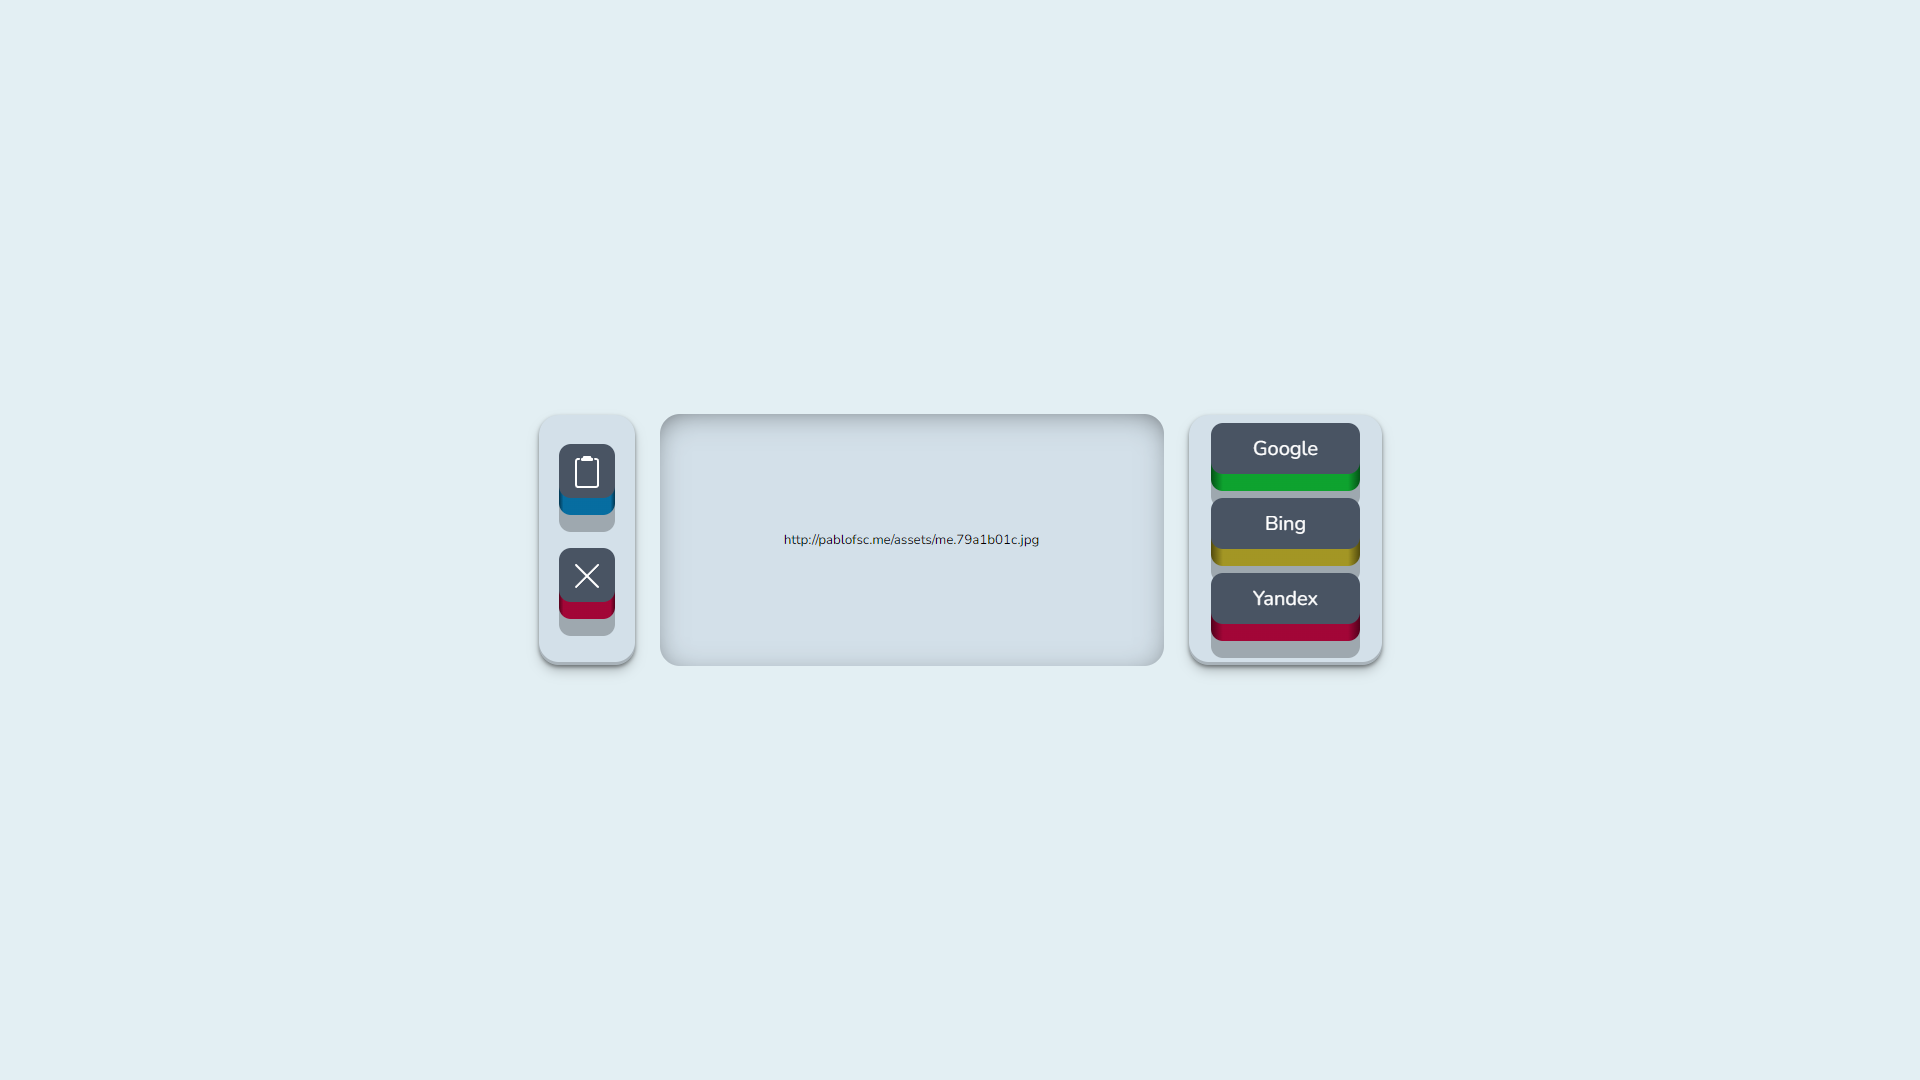
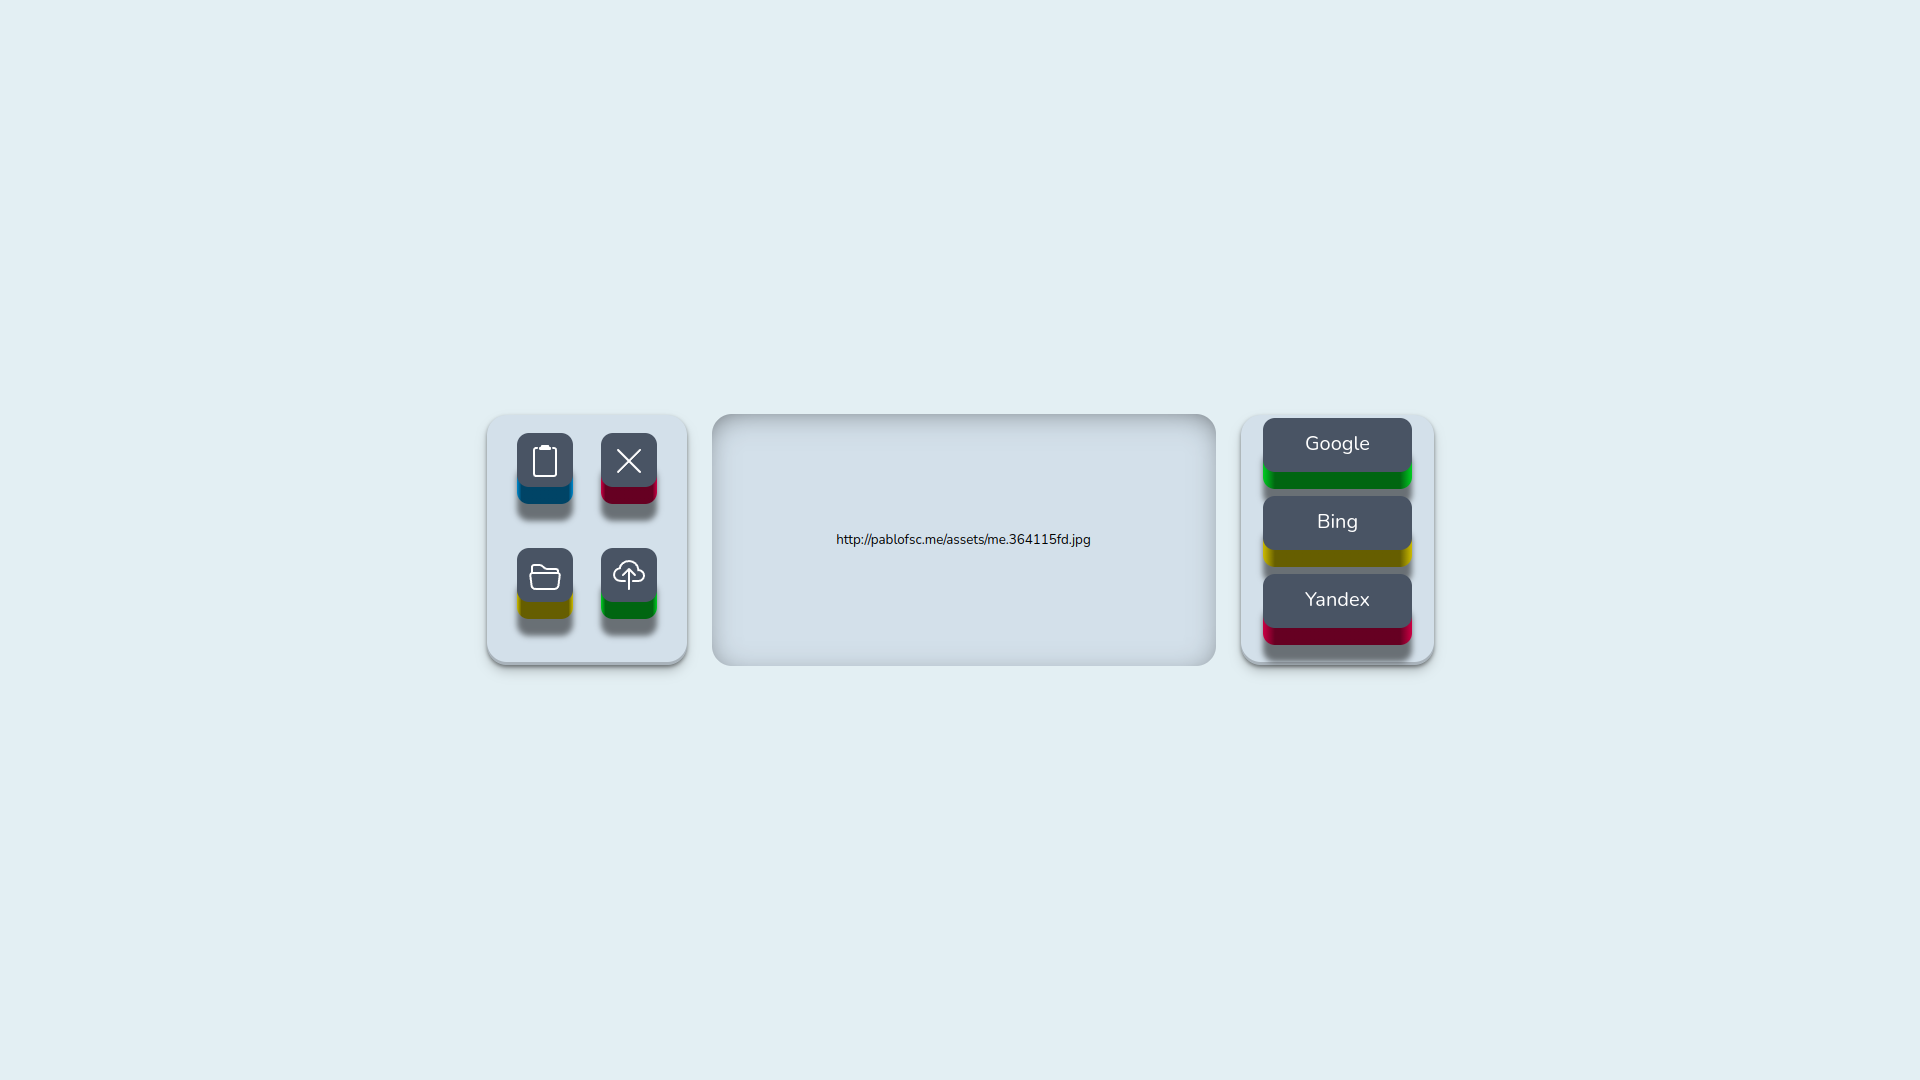
Centralize top bar and make dark mode the default

Changed region(s): [[0.5938, 0.3667, 0.75, 0.6417], [0.25, 0.3667, 0.375, 0.6417], [0.4062, 0.4889, 0.5625, 0.5194]]

diff --git a/src/components/DarkMode.tsx b/src/components/DarkMode.tsx
@@ -1,7 +1,7 @@
 import { useState } from "react"
 
 const DarkMode = () => {
-    const [inDarkMode, setMode] = useState<boolean>(false)
+    const [inDarkMode, setMode] = useState(true)
 
     const switchColorScheme = () => {
         if (inDarkMode) {
@@ -10,9 +10,6 @@ const DarkMode = () => {
             document.documentElement.style.setProperty('--c', '#398AB9')
             document.documentElement.style.setProperty('--d', '#1C658C')
             document.documentElement.style.setProperty('--letters', 'black')
-
-            document.documentElement.style.setProperty('--buttonbg', '#1C658C')
-            document.documentElement.style.setProperty('--hoverbbg', '#1C658C')
         }
         else {
             document.documentElement.style.setProperty('--a', '#1B262C')
@@ -20,9 +17,6 @@ const DarkMode = () => {
             document.documentElement.style.setProperty('--c', '#3282B8')
             document.documentElement.style.setProperty('--d', '#BBE1FA')
             document.documentElement.style.setProperty('--letters', 'white')
-
-            document.documentElement.style.setProperty('--buttonbg', '#1C658C')
-            document.documentElement.style.setProperty('--hoverbbg', '#1C658C')
         }
         setMode(!inDarkMode);
     }
@@ -30,10 +24,8 @@ const DarkMode = () => {
     return (
         <div className='topBarItem hasDefaultBackground fades tridimensional'>
             <div className="darkModeSwitch">
-                <svg xmlns="http://www.w3.org/2000/svg" width="25" height="25" fill="currentColor" className="bi bi-sun"
-                    viewBox="0 0 16 16">
-                    <path
-                        d="M8 11a3 3 0 1 1 0-6 3 3 0 0 1 0 6zm0 1a4 4 0 1 0 0-8 4 4 0 0 0 0 8zM8 0a.5.5 0 0 1 .5.5v2a.5.5 0 0 1-1 0v-2A.5.5 0 0 1 8 0zm0 13a.5.5 0 0 1 .5.5v2a.5.5 0 0 1-1 0v-2A.5.5 0 0 1 8 13zm8-5a.5.5 0 0 1-.5.5h-2a.5.5 0 0 1 0-1h2a.5.5 0 0 1 .5.5zM3 8a.5.5 0 0 1-.5.5h-2a.5.5 0 0 1 0-1h2A.5.5 0 0 1 3 8zm10.657-5.657a.5.5 0 0 1 0 .707l-1.414 1.415a.5.5 0 1 1-.707-.708l1.414-1.414a.5.5 0 0 1 .707 0zm-9.193 9.193a.5.5 0 0 1 0 .707L3.05 13.657a.5.5 0 0 1-.707-.707l1.414-1.414a.5.5 0 0 1 .707 0zm9.193 2.121a.5.5 0 0 1-.707 0l-1.414-1.414a.5.5 0 0 1 .707-.707l1.414 1.414a.5.5 0 0 1 0 .707zM4.464 4.465a.5.5 0 0 1-.707 0L2.343 3.05a.5.5 0 1 1 .707-.707l1.414 1.414a.5.5 0 0 1 0 .708z" />
+                <svg xmlns="http://www.w3.org/2000/svg" width="25" height="25" fill="currentColor" className="bi bi-moon" viewBox="0 0 16 16">
+                    <path d="M6 .278a.768.768 0 0 1 .08.858 7.208 7.208 0 0 0-.878 3.46c0 4.021 3.278 7.277 7.318 7.277.527 0 1.04-.055 1.533-.16a.787.787 0 0 1 .81.316.733.733 0 0 1-.031.893A8.349 8.349 0 0 1 8.344 16C3.734 16 0 12.286 0 7.71 0 4.266 2.114 1.312 5.124.06A.752.752 0 0 1 6 .278zM4.858 1.311A7.269 7.269 0 0 0 1.025 7.71c0 4.02 3.279 7.276 7.319 7.276a7.316 7.316 0 0 0 5.205-2.162c-.337.042-.68.063-1.029.063-4.61 0-8.343-3.714-8.343-8.29 0-1.167.242-2.278.681-3.286z" />
                 </svg>
 
                 <label className="switch">
@@ -41,11 +33,10 @@ const DarkMode = () => {
                     <span className="slider round"></span>
                 </label>
 
-                <svg xmlns="http://www.w3.org/2000/svg" width="25" height="25" fill="currentColor" className="bi bi-moon"
-                    viewBox="0 0 16 16">
-                    <path
-                        d="M6 .278a.768.768 0 0 1 .08.858 7.208 7.208 0 0 0-.878 3.46c0 4.021 3.278 7.277 7.318 7.277.527 0 1.04-.055 1.533-.16a.787.787 0 0 1 .81.316.733.733 0 0 1-.031.893A8.349 8.349 0 0 1 8.344 16C3.734 16 0 12.286 0 7.71 0 4.266 2.114 1.312 5.124.06A.752.752 0 0 1 6 .278zM4.858 1.311A7.269 7.269 0 0 0 1.025 7.71c0 4.02 3.279 7.276 7.319 7.276a7.316 7.316 0 0 0 5.205-2.162c-.337.042-.68.063-1.029.063-4.61 0-8.343-3.714-8.343-8.29 0-1.167.242-2.278.681-3.286z" />
+                <svg xmlns="http://www.w3.org/2000/svg" width="25" height="25" fill="currentColor" className="bi bi-sun" viewBox="0 0 16 16">
+                    <path d="M8 11a3 3 0 1 1 0-6 3 3 0 0 1 0 6zm0 1a4 4 0 1 0 0-8 4 4 0 0 0 0 8zM8 0a.5.5 0 0 1 .5.5v2a.5.5 0 0 1-1 0v-2A.5.5 0 0 1 8 0zm0 13a.5.5 0 0 1 .5.5v2a.5.5 0 0 1-1 0v-2A.5.5 0 0 1 8 13zm8-5a.5.5 0 0 1-.5.5h-2a.5.5 0 0 1 0-1h2a.5.5 0 0 1 .5.5zM3 8a.5.5 0 0 1-.5.5h-2a.5.5 0 0 1 0-1h2A.5.5 0 0 1 3 8zm10.657-5.657a.5.5 0 0 1 0 .707l-1.414 1.415a.5.5 0 1 1-.707-.708l1.414-1.414a.5.5 0 0 1 .707 0zm-9.193 9.193a.5.5 0 0 1 0 .707L3.05 13.657a.5.5 0 0 1-.707-.707l1.414-1.414a.5.5 0 0 1 .707 0zm9.193 2.121a.5.5 0 0 1-.707 0l-1.414-1.414a.5.5 0 0 1 .707-.707l1.414 1.414a.5.5 0 0 1 0 .707zM4.464 4.465a.5.5 0 0 1-.707 0L2.343 3.05a.5.5 0 1 1 .707-.707l1.414 1.414a.5.5 0 0 1 0 .708z" />
                 </svg>
+
             </div>
         </div>
     )

diff --git a/src/components/MainContent.tsx b/src/components/MainContent.tsx
@@ -1,54 +1,43 @@
-import { Col, Row } from 'react-bootstrap';
+import { Col } from 'react-bootstrap';
 import ProjectList from './ProjectList';
 import TechnologiesList from './TechnologiesList';
-import Weather from './Weather'
-import DarkMode from './DarkMode'
-import CurrencyPrices from './CurrencyPrices'
 
 const MainContent = () => {
     return (
         <Col lg="9">
-            <div className='topBar' style={{ marginTop: 0 }}>
-                <Weather />
-                <CurrencyPrices />
-                <DarkMode />
+            <div className='textArea fades'>
+                <h2>
+                    Bem vindo ao meu portfólio
+                </h2>
+
+                <p>
+                    Meu nome é Pablo, estou cursando o último ano de Engenharia de Computação no Centro Universitário de Brasília.
+                    <br />
+                    Busco adquirir experiência na área de <b>Desenvolvimento Web</b>, front e back.
+                </p>
+
+                Estas são as tecnologias com que tenho alguma familiaridade:
+
+                <div className='knowledge'>
+                    <TechnologiesList list={[
+                        'html',
+                        'css',
+                        'js',
+                        'ts',
+                        'bootstrap',
+                        'react',
+                        'express',
+                        'heroku',
+                        'github'
+                    ]} size={40} />
+                </div>
+                Este portfolio foi feito com React e Bootstrap.
             </div>
 
-            <div>
-                <div className='textArea fades'>
-                    <h2>
-                        Bem vindo ao meu portfólio
-                    </h2>
-
-                    <p>
-                        Meu nome é Pablo, estou cursando o último ano de Engenharia de Computação no Centro Universitário de Brasília.
-                        <br />
-                        Busco adquirir experiência na área de <b>Desenvolvimento Web</b>, front e back.
-                    </p>
-
-                    Estas são as tecnologias com que tenho alguma familiaridade:
-
-                    <div className='knowledge'>
-                        <TechnologiesList list={[
-                            'html',
-                            'css',
-                            'js',
-                            'ts',
-                            'bootstrap',
-                            'react',
-                            'express',
-                            'heroku',
-                            'github'
-                        ]} size={40} />
-                    </div>
-                    Este portfolio foi feito com React e Bootstrap.
-                </div>
-
-                <div className='textArea fades'>
-                    <h2>Meus projetos</h2>
-                    <p>Tenho feito alguns projetos pequenos para estudar e conhecer tecnologias que me interessam. Estes são os mais legais:</p>
-                    <ProjectList />
-                </div>
+            <div className='textArea fades'>
+                <h2>Meus projetos</h2>
+                <p>Tenho feito alguns projetos pequenos para estudar e conhecer tecnologias que me interessam. Estes são os mais legais:</p>
+                <ProjectList />
             </div>
         </Col >
     )

diff --git a/src/App.css b/src/App.css
@@ -15,11 +15,11 @@
 }
 
 :root {
-    --a: #EEEEEE;
-    --b: #b7cadb;
-    --c: #398AB9;
-    --d: #1C658C;
-    --letters: black;
+    --a: #1B262C;
+    --b: #0F4C75;
+    --c: #3282B8;
+    --d: #BBE1FA;
+    --letters: white;
 
     --buttonbg: #1C658C;
     --hoverbbg: #398AB9;
@@ -29,6 +29,12 @@ body {
     background-color: var(--a) !important;
     animation: fadeInAnimation ease 1.5s;
     transition: 1s;
+}
+
+h1 {
+    color: var(--letters);
+    text-align: center;
+    margin-bottom: 30px !important;
 }
 
 .hasDefaultBackground {
@@ -47,7 +53,7 @@ body {
 
 .textArea {
     color: var(--letters);
-    margin: 30px;
+    margin: 0 30px 30px 30px;
 }
 
 .sidebarItem {
@@ -61,8 +67,9 @@ body {
 
 .topBar {
     display: flex;
-    justify-content: space-between;
+    justify-content: center;
     height: fit-content;
+    margin: 0 0 30px 0;
 }
 
 .topBarItem {
@@ -86,8 +93,8 @@ body {
 
 .currencyPrices {
     display: flex;
-    flex-grow: 1;
     justify-content: space-around;
+    width: 35%;
 }
 
 .photo {
@@ -284,6 +291,7 @@ body {
     .currencyPrices {
         justify-content: space-around;
         padding: 10px 0;
+        width: 100%;
     }
 
     .textArea {

diff --git a/src/App.tsx b/src/App.tsx
@@ -5,11 +5,20 @@ import { Container, Row } from 'react-bootstrap';
 
 import Sidebar from './components/Sidebar'
 import MainContent from './components/MainContent'
+import TopBar from './components/TopBar'
 
 function App() {
     return (
         <div className="App">
             <Container>
+                <Row>
+                    <TopBar />
+                </Row>
+                <Row>
+                    <h1 className='fades'>
+                        pablofsc.me
+                    </h1>
+                </Row>
                 <Row>
                     <Sidebar />
                     <MainContent />

diff --git a/src/components/TopBar.tsx b/src/components/TopBar.tsx
@@ -1,0 +1,17 @@
+import { Col } from 'react-bootstrap';
+
+import Weather from './Weather'
+import DarkMode from './DarkMode'
+import CurrencyPrices from './CurrencyPrices'
+
+const TopBar = () => {
+    return (
+        <Col className='topBar'>
+            <Weather />
+            <CurrencyPrices />
+            <DarkMode />
+        </Col>
+    )
+}
+
+export default TopBar

diff --git a/src/components/CurrencyPrices.tsx b/src/components/CurrencyPrices.tsx
@@ -38,7 +38,7 @@ const CurrencyPrices = () => {
     }, [])
 
     return (
-        <div className='currencyPrices topBarItem hasDefaultBackground fades tridimensional'>
+        <div className='topBarItem currencyPrices hasDefaultBackground fades tridimensional'>
             <div>
                 <div>
                     <b>$</b> 1 = <b>R$</b> {brl.toFixed(2)}

diff --git a/index.html b/index.html
@@ -8,6 +8,12 @@
   <title>Pablo Felipe Santos Carneiro</title>
 </head>
 
+<style>
+  body {
+    background-color: #1B262C;
+  }
+</style>
+
 <body>
   <div id="root"></div>
   <script type="module" src="/src/main.tsx"></script>
